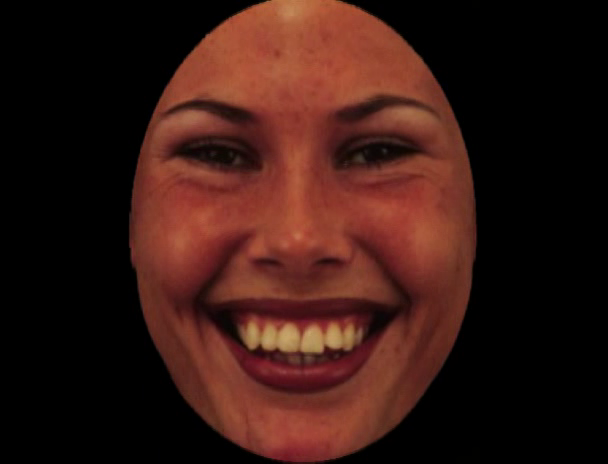
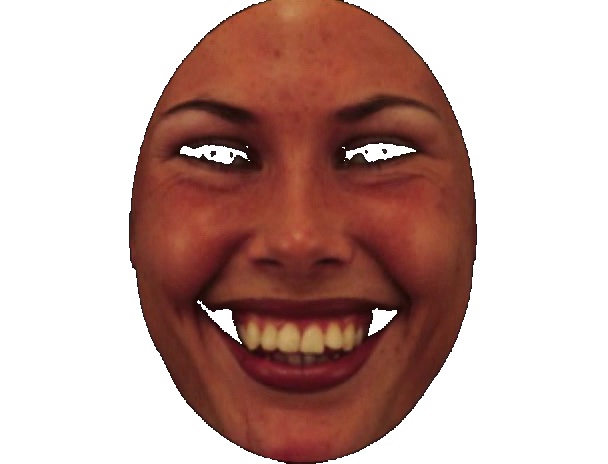
bRMS: transparent face backgrounds, preserve aspect ratio
Remove black background from face PNGs (threshold < 30 → alpha 0).
Add objectFit: contain so faces display in their native 608×464
proportions instead of being compressed into the tall narrow box.

diff --git a/app/bRMS/experiment/page.tsx b/app/bRMS/experiment/page.tsx
@@ -345,6 +345,7 @@ export default function BRMSExperimentPage() {
             top: faceTop,
             left: trial.side === 'left' ? faceLeftL : faceLeftR,
             opacity: 0, zIndex: 1,
+            objectFit: 'contain',
             transform: trial.orientation === 'inverted' ? 'rotate(180deg)' : undefined,
           }} />
 

diff --git a/app/bRMS/practice/page.tsx b/app/bRMS/practice/page.tsx
@@ -284,6 +284,7 @@ export default function BRMSPracticePage() {
             top: faceTop,
             left: trial.side === 'left' ? faceLeftL : faceLeftR,
             opacity: 0, zIndex: 1,
+            objectFit: 'contain',
             transform: trial.orientation === 'inverted' ? 'rotate(180deg)' : undefined,
           }} />
 
